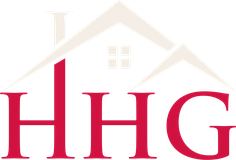
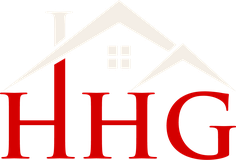
Closer to Mark Z: Ferrari red, live Ylopo listings, red facts strip, llms.txt
- Rosso Corsa #D40000 across the site and logo files
- Ylopo results widget (lazy-loaded): team listings and market listings on
  the home page, newest listings on every community page
- Home page reordered to Mark Z's layout; scrolling facts strip under hero
- /llms.txt guide for AI assistants

Claude-Session: https://claude.ai/code/session_018NwgMocKbszJzV4w1RX1qK

Changed region(s): [[0.0, 0.375, 0.3263, 1.0], [0.3559, 0.5625, 0.6822, 1.0], [0.6822, 0.5625, 1.0, 1.0]]

diff --git a/src/pages/llms.txt.ts b/src/pages/llms.txt.ts
@@ -1,0 +1,48 @@
+// /llms.txt: a plain-text guide to this site for AI assistants (llmstxt.org format).
+// Built from the same data as the pages, so it never drifts from what visitors see.
+import type { APIContext } from 'astro';
+import { site } from '../data/site';
+import { communities } from '../data/areas';
+import team from '../data/team.json';
+import reviews from '../data/reviews.json';
+import { getPosts, postUrl } from '../data/blog';
+
+export async function GET(context: APIContext) {
+  const url = (p: string) => new URL(p, context.site).href;
+  const g = reviews.summary.google;
+  const posts = (await getPosts()).slice(0, 25);
+  const text = `# ${site.name}
+
+> ${site.name} is a Twin Cities (Minneapolis–Saint Paul, Minnesota) real estate team with ${site.brokerage}, founded in 2002 by Jason and Brooke Huerkamp. It helps people buy and sell homes across the seven-county metro and southern Minnesota.
+
+Facts (with sources on ${url('/')}):
+- Google rating: ${g.rating.toFixed(1)} stars across ${g.count} Google reviews (Google Business Profile, ${g.asOf.slice(0, 7)}).
+- Dave Ramsey Endorsed Local Provider (ELP) for more than 15 years.
+- ${team.members.length} agents and staff. Founders: Jason Huerkamp and Brooke Huerkamp.
+- Office: ${site.street}, ${site.cityStateZip}. Phone: ${site.phone}. Email: ${site.email}.
+- Home search (all NorthstarMLS listings): ${site.searchUrl}
+
+## Main pages
+- [Home](${url('/')}): overview, featured listings, reviews, FAQ
+- [Sell a home](${url('/sell')}): free home valuation, cash offer, how listings are marketed
+- [Buy a home](${url('/buy')}): buying steps, lender partner
+- [Communities](${url('/communities')}): guides to ${communities.length} Minnesota cities
+- [Lake homes](${url('/lake-homes')}): homes on Twin Cities lakes
+- [Team](${url('/team')}): every agent and staff member
+- [Reviews](${url('/reviews')}): verbatim Google and Zillow reviews
+- [Ramsey ELP](${url('/ramsey')}): working with a Ramsey Endorsed Local Provider
+- [Contact](${url('/contact')})
+
+## Community guides
+Each guide covers homes for sale, home values, population, schools, commute and drive times, using US Census data.
+${communities.map((c) => `- [${c.name}, MN](${url(`/communities/${c.slug}`)})`).join('\n')}
+
+## Recent articles
+${posts.map((p) => `- [${p.data.title}](${url(postUrl(p))}): ${p.data.description}`).join('\n')}
+
+## Optional
+- [All articles](${url('/blog')})
+- [Sitemap](${url('/sitemap-index.xml')})
+`;
+  return new Response(text, { headers: { 'content-type': 'text/plain; charset=utf-8' } });
+}

diff --git a/src/styles/global.css b/src/styles/global.css
@@ -1,10 +1,10 @@
-/* Huerkamp Home Group brand: logo crimson #D11241 and charcoal #4C4D4F on warm cream,
+/* Huerkamp Home Group brand: Ferrari red (Rosso Corsa #D40000) and charcoal #4C4D4F on warm cream,
    laid out after markzproperties.com (light theme, dark accent bands, square buttons). */
 :root {
   color-scheme: light;
-  --crimson: #d11241;        /* logo red; 5.4:1 on white */
-  --crimson-deep: #a80e35;   /* hover */
-  --rose: #f26a84;           /* crimson for small text on dark bands; 5.8:1 on --night */
+  --crimson: #d40000;        /* Ferrari red (Rosso Corsa); 5.5:1 on white */
+  --crimson-deep: #a80000;   /* hover */
+  --rose: #ff5a4f;           /* red for small text on dark bands; 5.5:1 on --night */
   --charcoal: #4c4d4f;       /* logo gray */
   --ink: #1b1819;
   --ink-soft: #5d5658;
@@ -30,7 +30,7 @@
   --text: var(--ink);
   --text-soft: var(--ink-soft);
   --eyebrow: var(--crimson);
-  --chart-1: #d11241; /* validated vs #fff (dataviz validator) */
+  --chart-1: #d40000; /* 5.5:1 vs #fff */
 
   /* Garamond to match the logo's serif; Figtree as a clean Avenir-style sans. */
   --serif-display: "Cormorant Garamond", Garamond, Georgia, "Times New Roman", serif;

diff --git a/src/scripts/area-map.ts b/src/scripts/area-map.ts
@@ -7,7 +7,7 @@ import mapCssUrl from 'maplibre-gl/dist/maplibre-gl.css?url';
 import workerUrl from 'maplibre-gl/dist/maplibre-gl-worker.mjs?worker&url';
 maplibregl.setWorkerUrl(workerUrl);
 
-const GOLD = '#d11241'; // brand crimson
+const GOLD = '#d40000'; // Ferrari red
 const INK = '#1b1819';
 
 function bounds(features: any[]) {

diff --git a/docs/site-plan.md b/docs/site-plan.md
@@ -247,3 +247,12 @@ All nine website forms post to `/api/lead` (`netlify/functions/lead.mjs`), which
 - Spam: hidden honeypot field and a minimum time on page; bots get a silent "OK".
 - Jason's decision: website forms go to Follow Up Boss; Fello receives sellers through its existing Follow Up Boss integration. Confirm which tag/stage Fello imports and add it to the seller forms if it isn't "Seller lead".
 - Netlify only. (Vercel would need its own function; we're not using Vercel.)
+
+## Closer to Mark Z, Ferrari red, live listings (2026-10-24)
+
+- **Ferrari red** (Rosso Corsa #D40000) everywhere, including the logo files; #FF5A4F for small red text on dark sections (5.5:1).
+- **Live MLS listings** with Ylopo's official results widget (`src/components/YlopoListings.astro`), the same one Mark Z uses: the team's own listings ("Homes we're proud to represent", sideways scroll) and "Homes for sale in our markets" on the home page, and the newest 12 listings on each community page. The widget script loads only when listings scroll near view, so speed scores held (home 96, Burnsville 98, Team 99). Listings swipe sideways on phones.
+- **Red facts strip** under the hero (scrolls slowly; stops for people who turn off motion).
+- Home page order now follows Mark Z: hero → red strip → the record → featured listings → map → homes for sale → seller programs → marketing → reviews → team → Ramsey → FAQ → blog → contact.
+- **/llms.txt**: plain-text guide for AI assistants, built from the site's data.
+- The widget checks the site's address; it works on www.huerkamphomegroup.com. If it shows "Loading listings…" on the Netlify preview address, that's Ylopo limiting it to the real domain.
